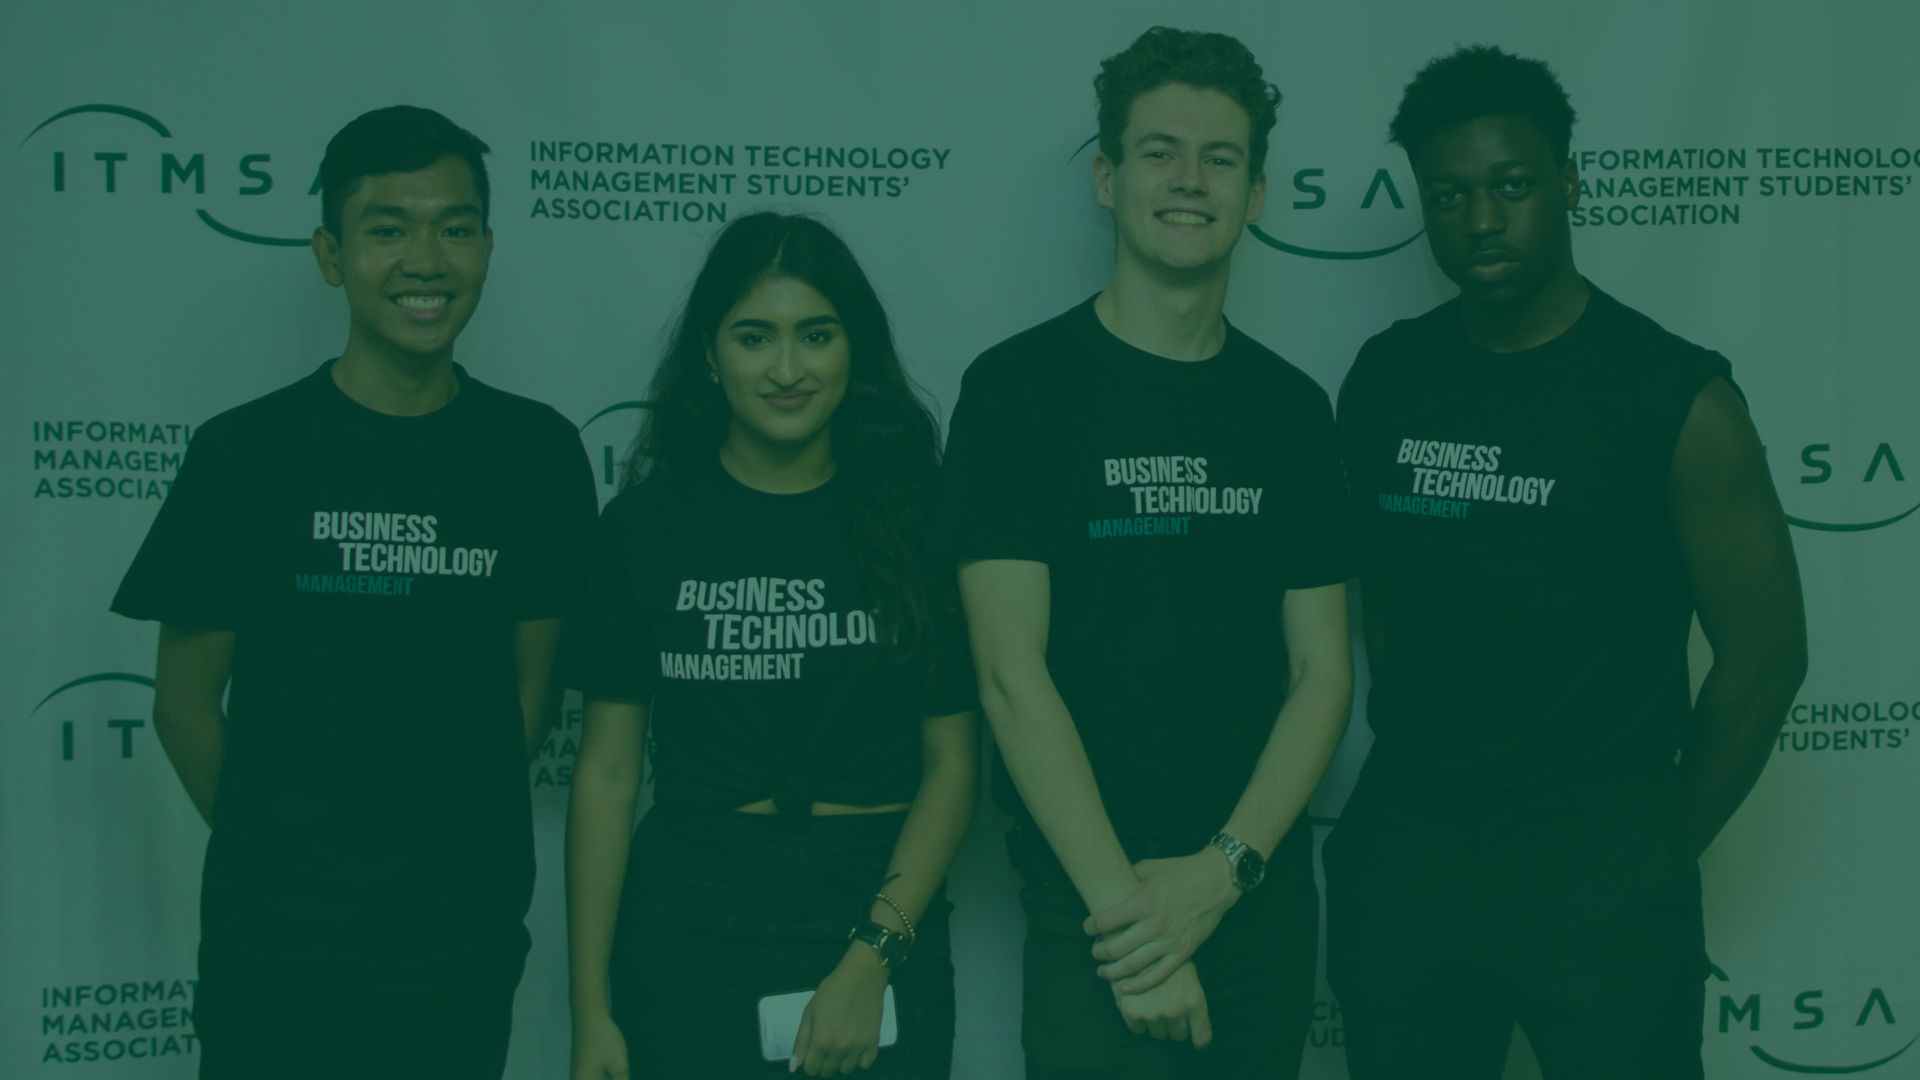
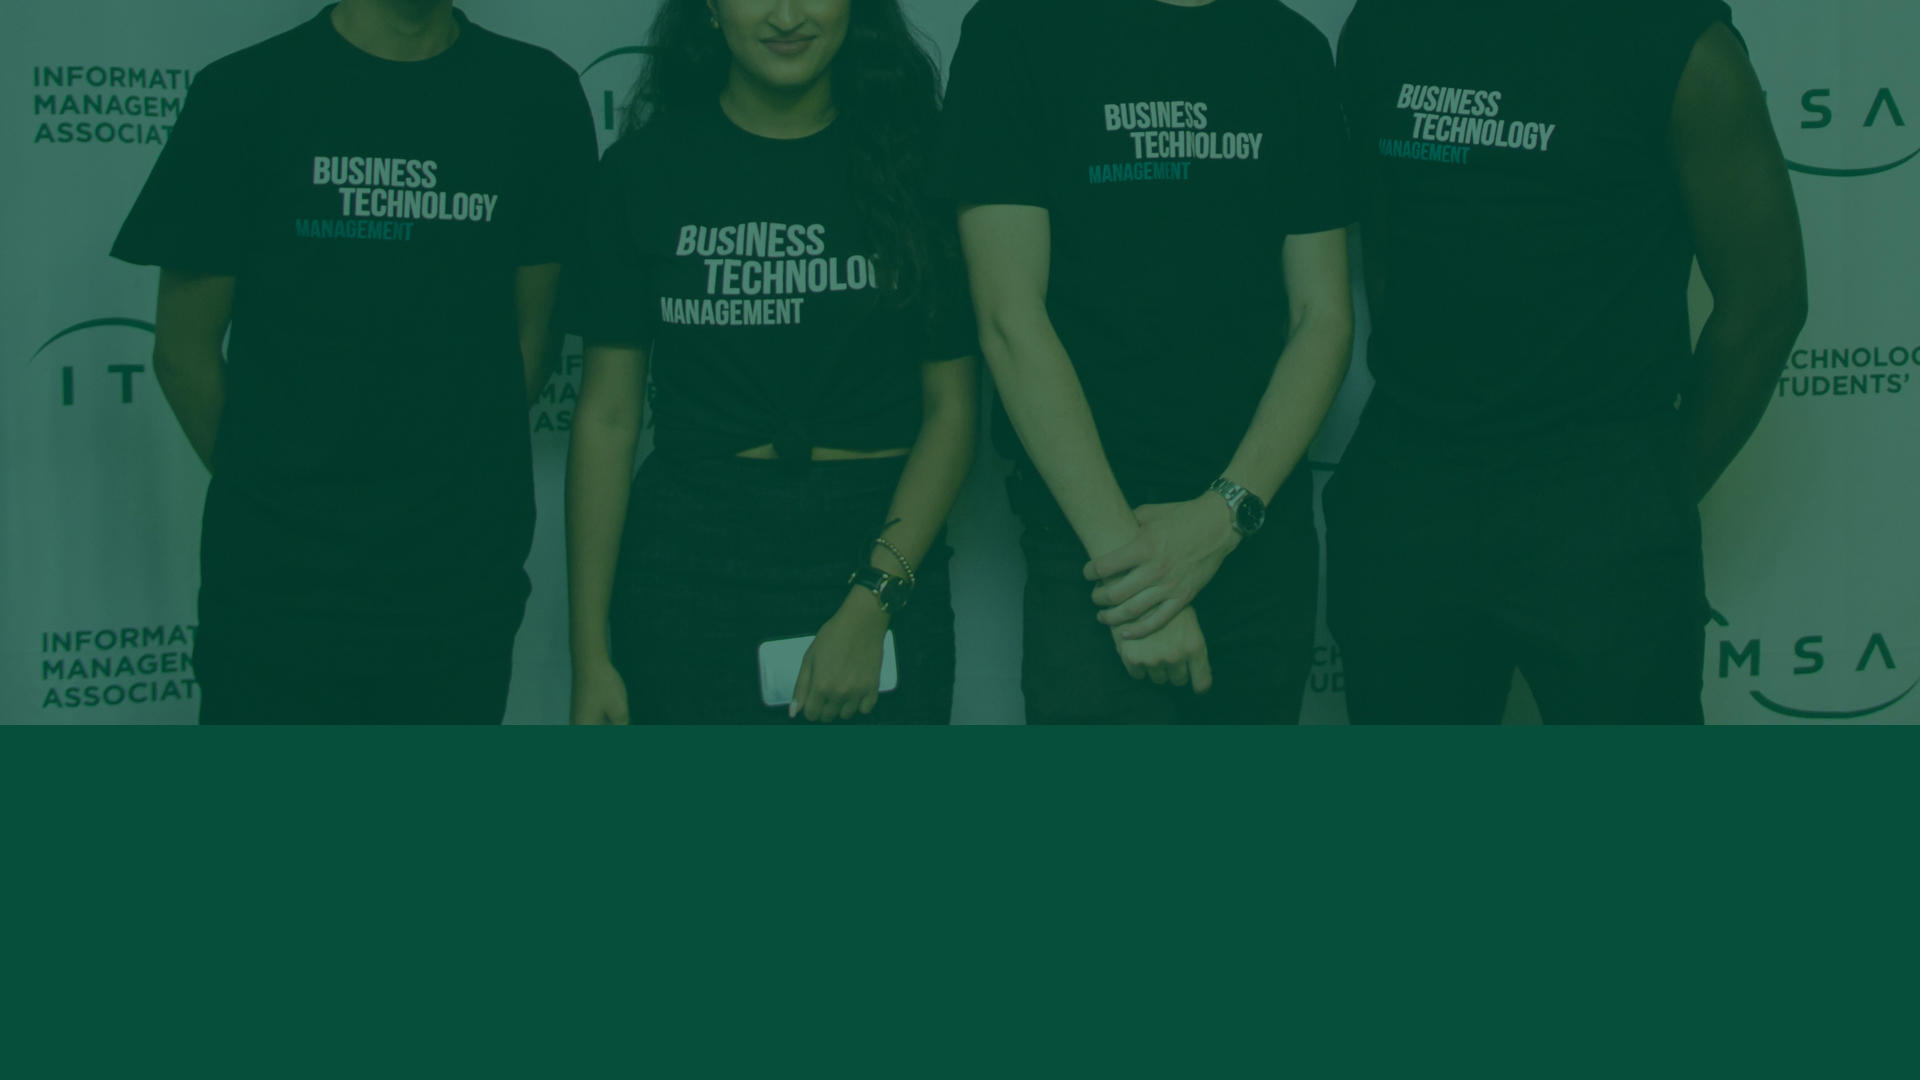
Updated apparel header bg

diff --git a/apparel.html b/apparel.html
@@ -72,7 +72,7 @@
 <main role="main" class="margintop">
 
 <div class="container-fluid">
-  <div class="row justify-content-center headerbg text-center" style="background: url(img/apparel/headerbg.jpg) no-repeat fixed bottom center; background-size:cover;">
+  <div class="row justify-content-center headerbg text-center" style="background: url(img/apparel/headerbg.jpg) no-repeat fixed top center; background-size:cover;">
     <div class="col-lg-8">
       <h1>Apparel</h1>
       <p>
